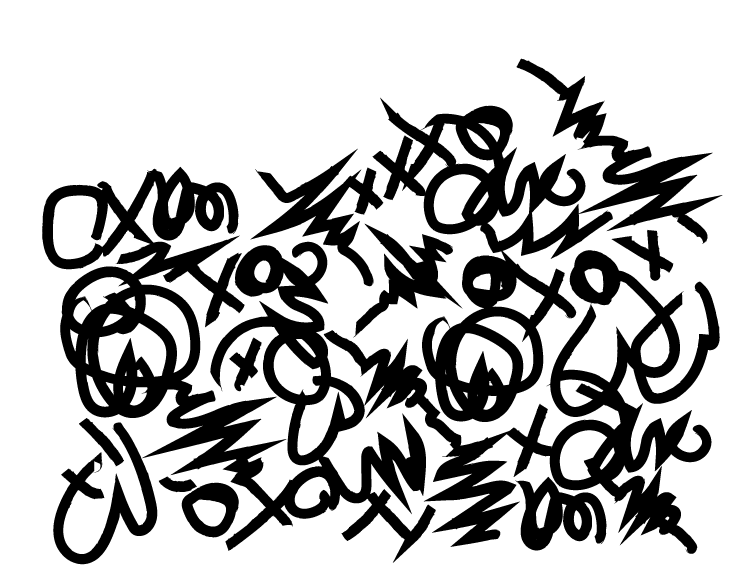
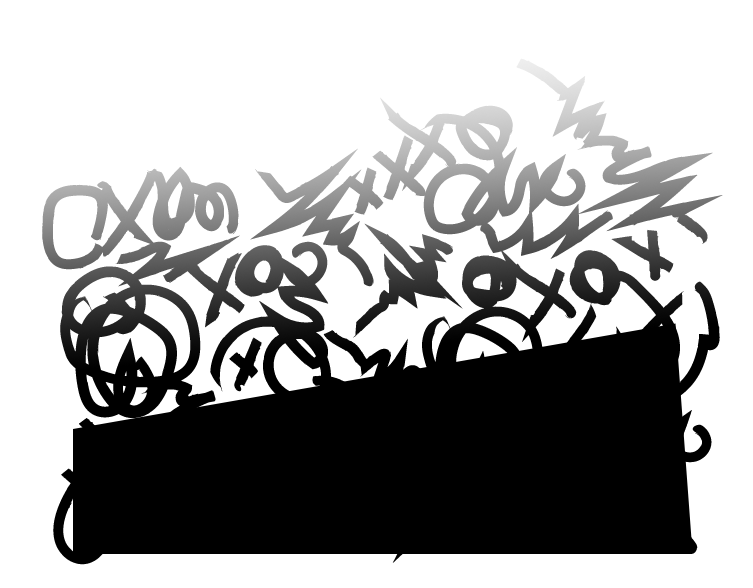
adds footer styling

Changed region(s): [[0.0916, 0.551, 0.9163, 0.949], [0.0305, 0.0918, 0.9469, 0.5816], [0.9163, 0.4592, 0.9469, 0.4898]]

diff --git a/css/main.css b/css/main.css
@@ -250,28 +250,21 @@ p {
 
 .wrapper-footer-background {
     position: relative;
-    top: -400px;
+    top: -500px;
     left: -100px;
+    z-index: -99;
 }
 
-.bck-pattern {
-    /* z-index: -99; */
-    /* mix-blend-mode: normal; */
-    /* mix-blend-mode: multiply; */
-    /* mix-blend-mode: screen; */
-    /* mix-blend-mode: overlay; */
-    /* mix-blend-mode: darken; */
-    /* mix-blend-mode: lighten; */
-    /* mix-blend-mode: color-dodge; */
-    /* mix-blend-mode: color-burn; */
-    /* mix-blend-mode: hard-light; */
-    /* mix-blend-mode: soft-light; */
-    /* mix-blend-mode: difference; */
-    /* mix-blend-mode: exclusion; */
-    /* mix-blend-mode: hue; */
-    /* mix-blend-mode: saturation; */
-    /* mix-blend-mode: color; */
-    /* mix-blend-mode: luminosity; */
+.footer-text {
+    position: relative;
+    top: -500px;
+    color: white;
+}
+
+.social-link {
+    position: relative;
+    top: -500px;
+    color: white;
 }
 
 /* ************************************************************* */

diff --git a/index.html b/index.html
@@ -115,7 +115,7 @@
     <footer class="container-footer container-fluid text-end"  role="contentinfo">
         <div><h3>HEARTFELT STUDIO</h3></div>
         <!-- Add Schema improving the way search engines read and represent your page -->
-        <div><p itemscope="address" itemtype="https://schema.org/PostalAddress">
+        <div class="footer-text"><p itemscope="address" itemtype="https://schema.org/PostalAddress">
             <span>We are located at:</span><br>
             <span itemprop="streetAddress">1385 Woodroffe Ave,</span><br>
             <span itemprop="addressLocality">Ottawa, </span>ON<br>
@@ -135,7 +135,7 @@
 
         <picture class="wrapper-footer-background">
             <source>
-            <img class="bck-pattern z-n1" src="images/heartfelt-background-pattern.png" alt="background patterned image">
+            <img class="bck-pattern" src="images/heartfelt-background-pattern.png" alt="background patterned image">
         </picture>
 
     </footer>
